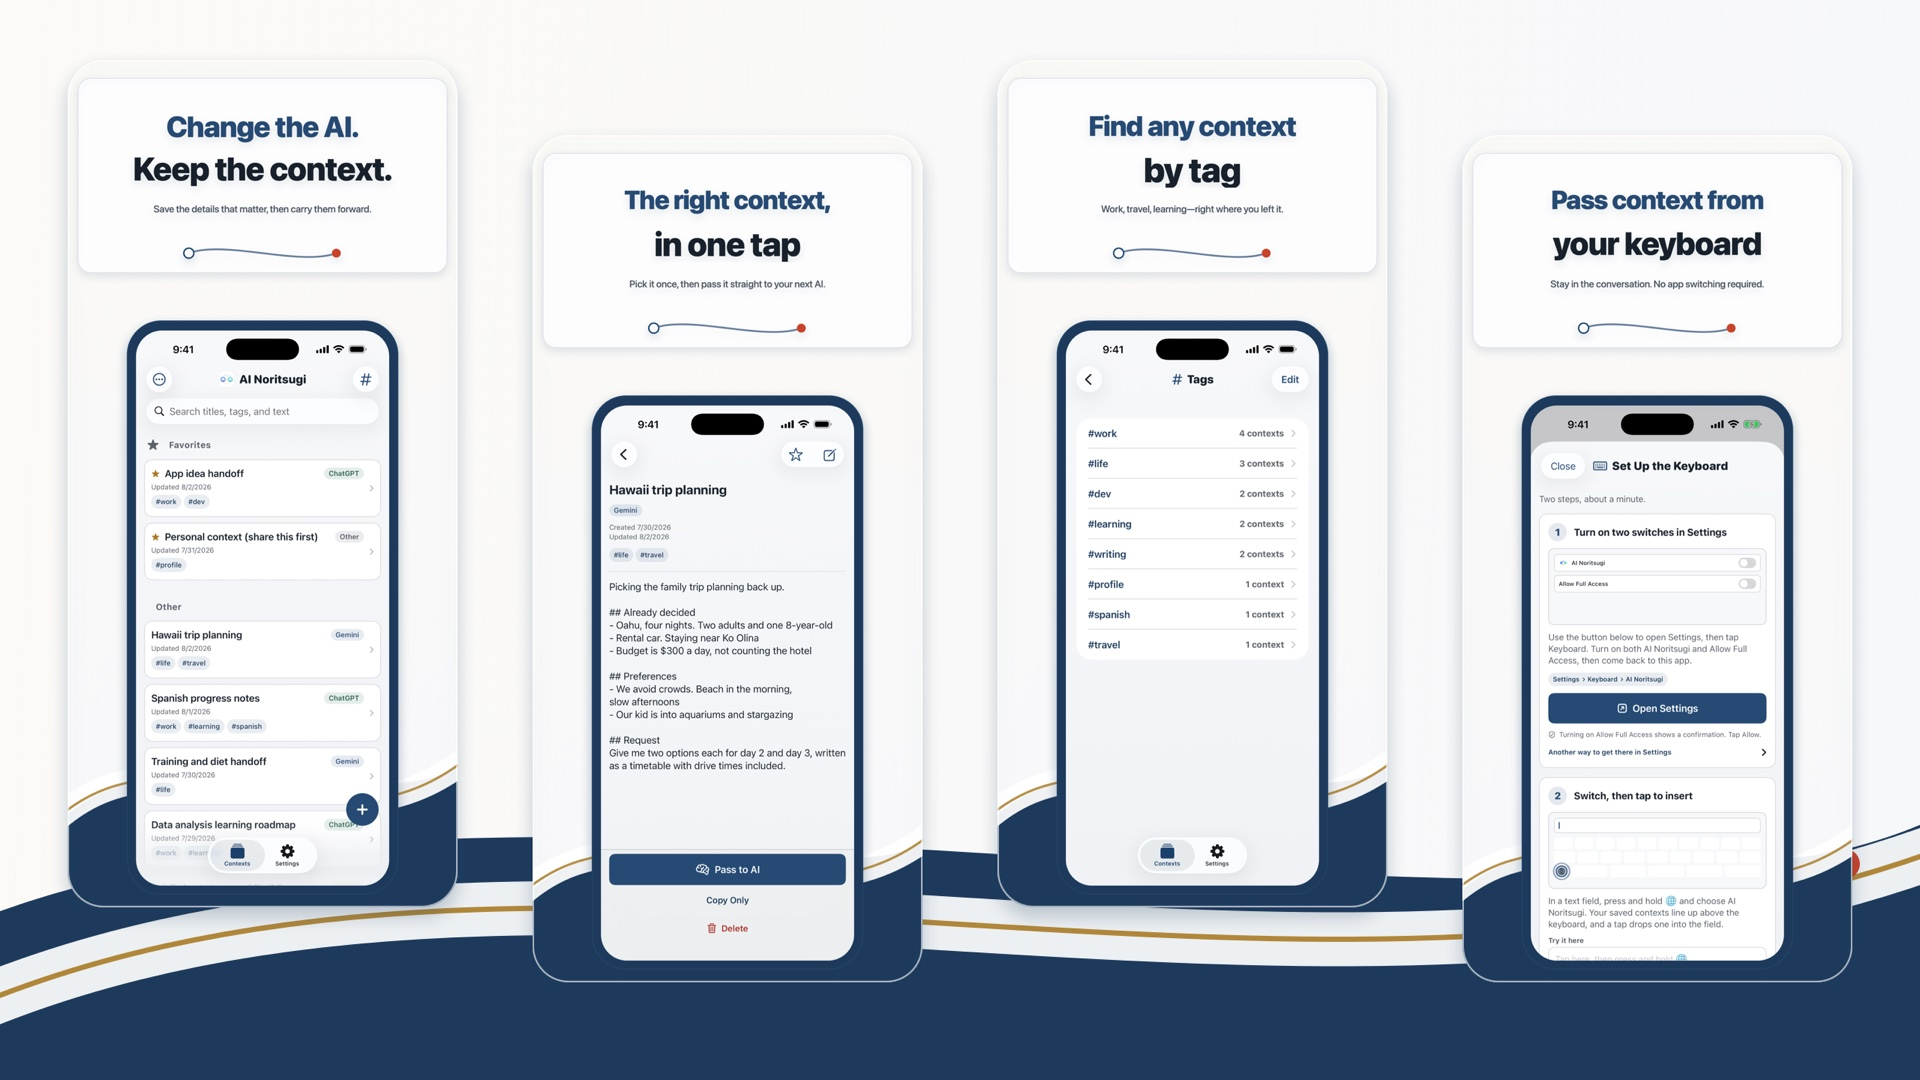
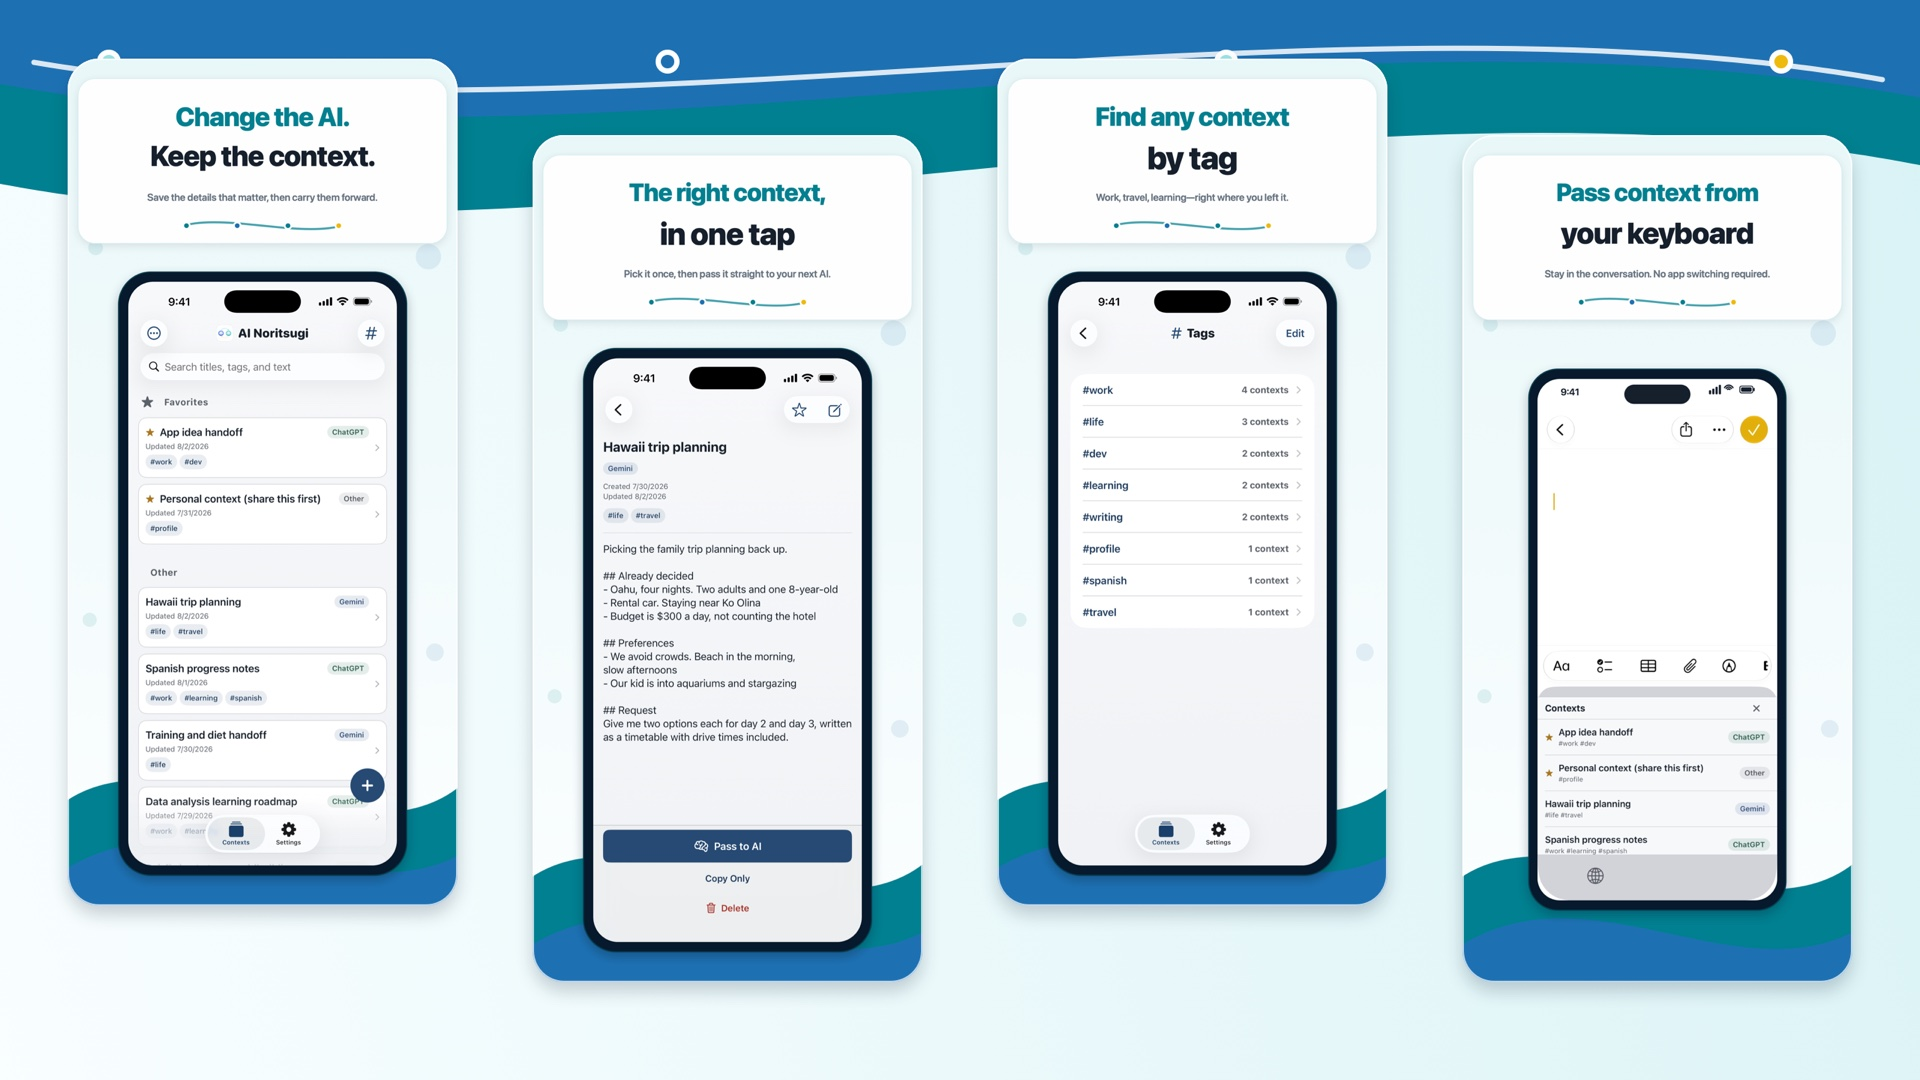
feat(ai-noritsugi): LP の訴求画像を差し替え、英語版4枚目を実演に直す
英語版の4枚目が「Set Up the Keyboard」の設定手順画面で、見出しの
"Pass context from your keyboard" が約束する機能と中身が食い違っていた。
日本語版と同じくキーボードを実際に使っている画面に差し替える。

あわせて4枚目のステータスバーを 9:41・フル電波・満充電に統一した。
従来は実機で撮ったままの 0:30 / マナーモード / 残量36% が残っていて、
9:41 に揃っている1〜3枚目から浮いていた。

英語版の alt は中身が変わったため書き直す。「設定手順」を説明していた
記述が、実際に写っているものと合わなくなるため。

寸法は 1920x1080 のまま。CSS は変更なし。

Claude-Session: https://claude.ai/code/session_01MXHdePooPXyB7agKfq8NFS

diff --git a/ai-noritsugi/en/index.html b/ai-noritsugi/en/index.html
@@ -192,7 +192,7 @@
     <div class="wrap">
       <figure class="shot">
         <div class="shot-scroll">
-          <img class="shot-img" src="../app-image-en.jpg" width="1920" height="1080" decoding="async" alt="Four app screens. 1. The context list — “Change the AI. Keep the context. Save the details that matter, then carry them forward.” 2. A single context — “The right context, in one tap. Pick it once, then pass it straight to your next AI.” 3. The tag list — “Find any context by tag. Work, travel, learning—right where you left it.” 4. The keyboard setup guide — “Pass context from your keyboard. Stay in the conversation. No app switching required.”">
+          <img class="shot-img" src="../app-image-en.jpg" width="1920" height="1080" decoding="async" alt="Four app screens. 1. The context list — “Change the AI. Keep the context. Save the details that matter, then carry them forward.” 2. A single context — “The right context, in one tap. Pick it once, then pass it straight to your next AI.” 3. The tag list — “Find any context by tag. Work, travel, learning—right where you left it.” 4. The keyboard open in another app, listing your saved contexts — “Pass context from your keyboard. Stay in the conversation. No app switching required.”">
         </div>
       </figure>
     </div>
